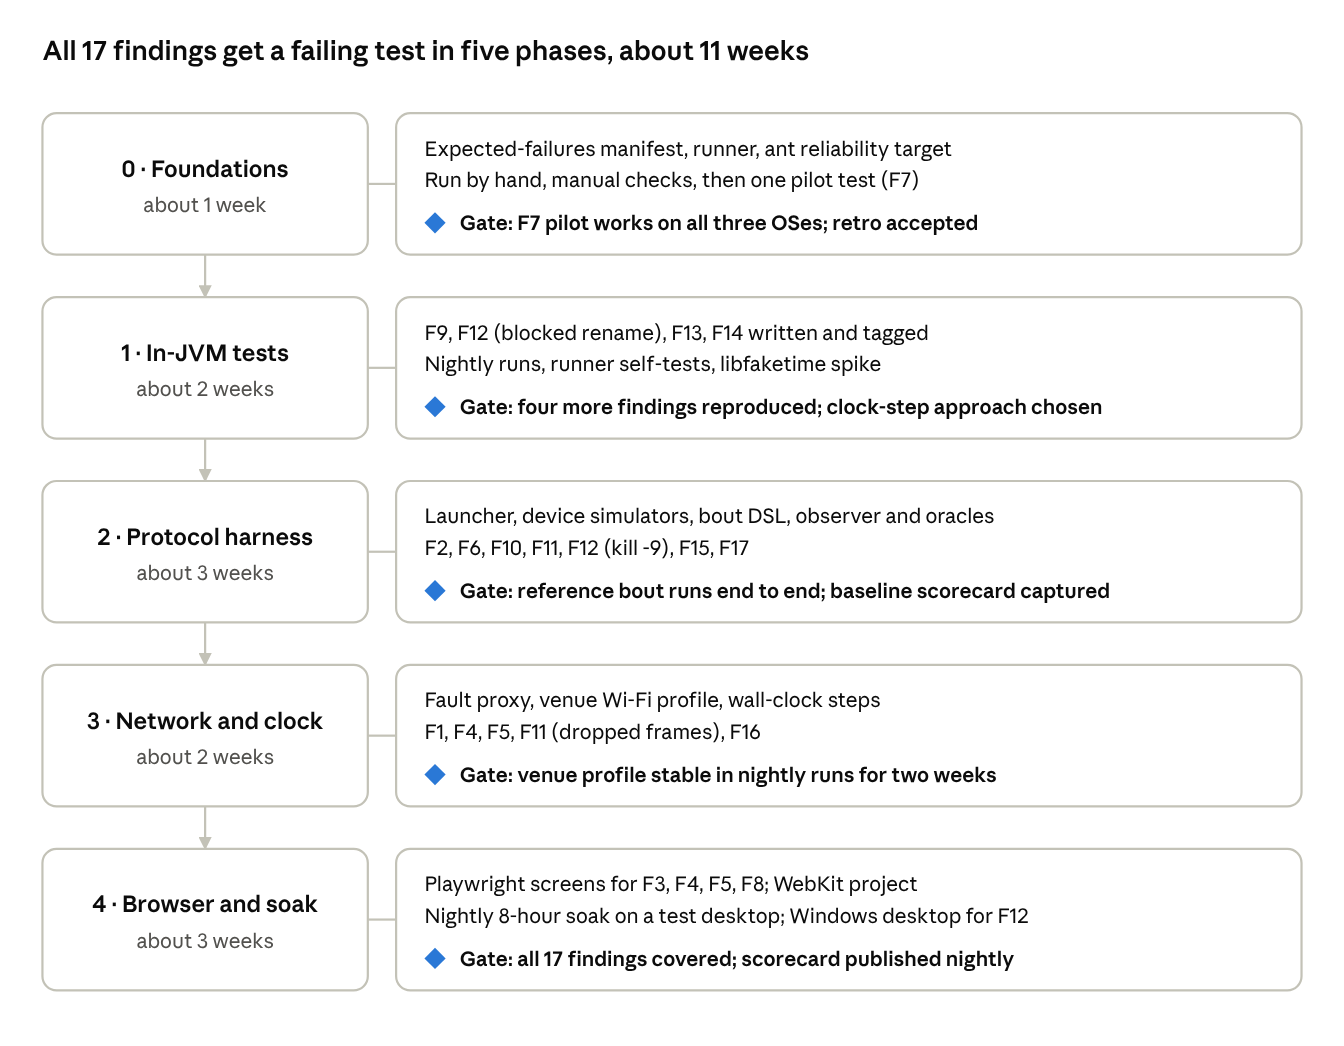
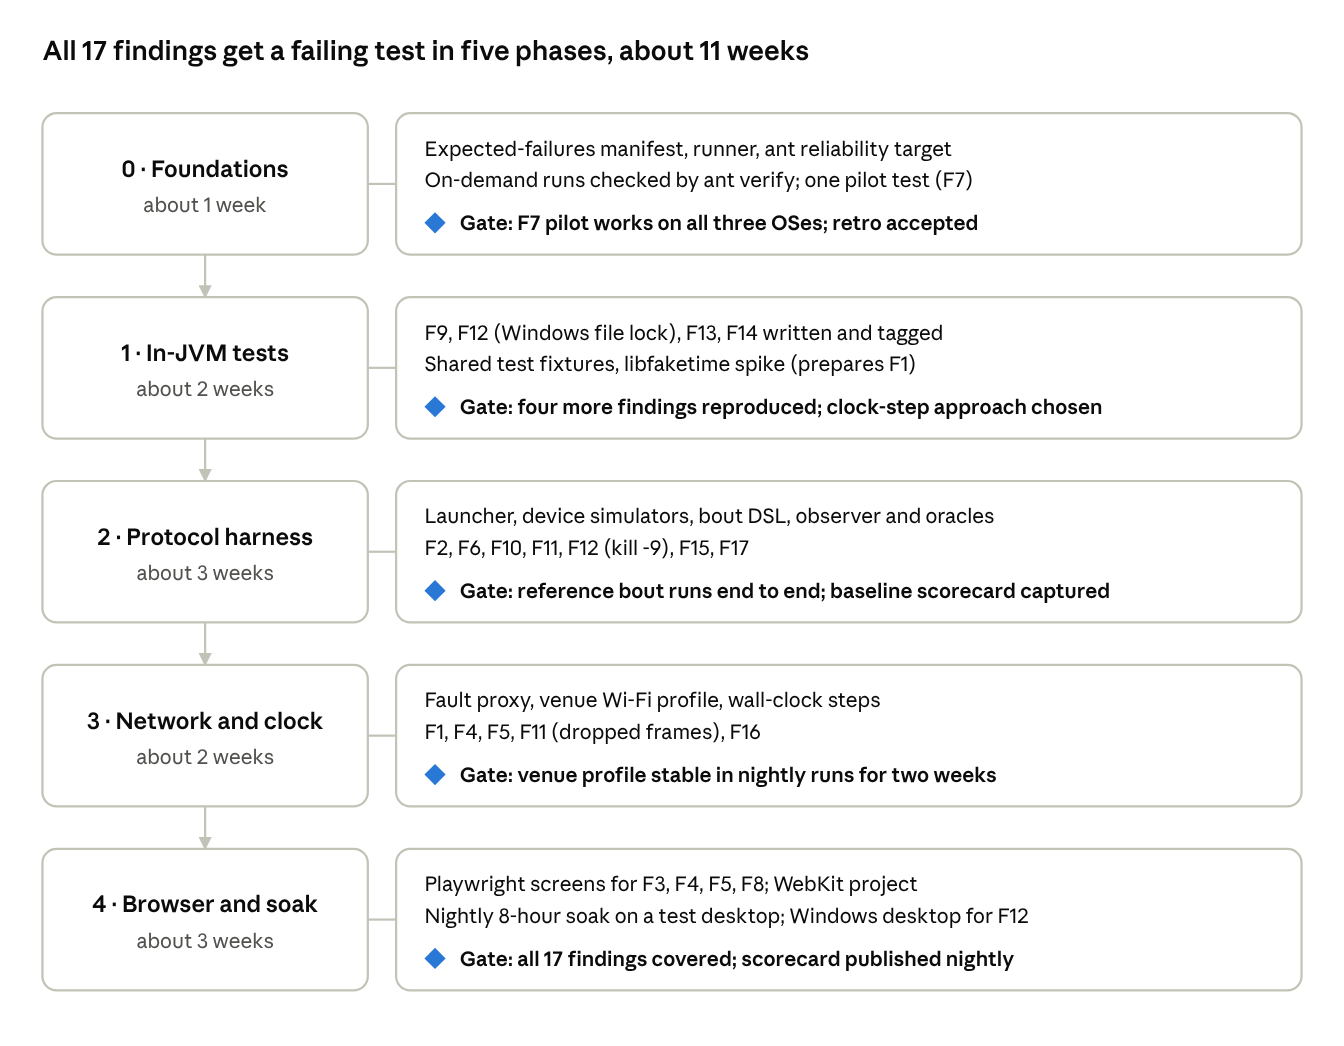
Draft Phase 1 design (F9, F12, F13, F14); mark pilot retro accepted
Each Phase 1 failure was reproduced against dev in scratch runs before
writing the design (F12 needs Windows confirmation). Drops nightly runs
from Phase 1 per the no-cron/no-CI clarification.

Claude-Session: https://claude.ai/code/session_01HZ4Y3PRWU9sq91ay1TwhwM

Changed region(s): [[0.3125, 0.3059, 0.7188, 0.3671], [0.3125, 0.153, 0.7188, 0.1836]]

diff --git a/docs/phase1-in-jvm.md b/docs/phase1-in-jvm.md
@@ -1,0 +1,181 @@
+# Phase 1 — In-JVM findings: design
+
+Status: draft for review · Parent plan: [README.md](../README.md) · Builds on: [Phase 0](phase0-foundations.md), [pilot retrospective](pilot-retro.md) · Oct 13, 2026
+
+Phase 1 adds reliability tests for four more findings: F9, F12, F13 and F14. All four run inside one JVM, through the runner, manifest and `verify` that Phase 0 built. Each failure below was reproduced against `dev` in a scratch run before this design was written. Phase 1 also includes a time-boxed libfaketime spike, which prepares F1 for Phase 3.
+
+Like Phase 0, everything runs on demand on the test desktops: there are no scheduled runs and no CI. This document is written so an agent can implement it without further questions.
+
+## 1. Decisions
+
+| Topic | Decision |
+| --- | --- |
+| Scope | Tests for F9, F12, F13 and F14, the support code they need, and the libfaketime spike. No other findings. |
+| Branch | `reliability-phase1` from `reliability` in `cabacon-gmail/scoreboard`, merged by pull request. |
+| Coupling | Unchanged from Phase 0. Only files under `reliability/` change; M13 enforces it. |
+| Verification | `ant -f reliability/build.xml verify` must report `VERIFY: OK` on Linux, macOS and Windows. M14 and M15 (from PR #3) cover every new manifest entry. No per-finding simulated fix (P3-style) is required. |
+| Scheduling | None. The "nightly runs" item in the Phase 1 roadmap is dropped, since you clarified that "no automation" means no cron and no CI. |
+| Platform-specific tests | A test that can only reproduce its finding on one OS uses a JUnit assumption elsewhere. The runner reports it as `SKIPPED` there, which doesn't fail the run. |
+
+## 2. Evidence from scratch runs against `dev`
+
+| Finding | Scratch result |
+| --- | --- |
+| F9 | A listener throwing on `IN_JAM` during Start Jam leaves `inJam=true`, the jam clock **not running**, and jam number 1. |
+| F13 | The newest autosave has one value that won't parse. The loader rejects it and falls back to the previous file (marker = A, correct), but a setting that existed **only in the rejected file** is still present after the load. |
+| F14 | With listeners registering and unregistering on another thread, `JSONStateManager.updateState` throws `ConcurrentModificationException` to its caller in 50, 56 and 68 of 200 iterations of 500 updates each, across three runs. |
+| F12 | Not reproducible on Linux, where renaming a file someone holds open succeeds. On Windows, a file held open by `java.io.FileInputStream` can't be renamed. Antivirus, backup and sync tools hold files open the same way. Must be confirmed on your Windows desktop: step 6.2. |
+
+The research also turned up two harness problems that Phase 1 must fix first (section 3):
+- **Logging a stack trace crashes without `Main`.** The product's `Logger.printStackTrace` throws `NullPointerException` when no logger is installed, and only `Main` installs one. A test that reaches any error-logging path dies, and the product's non-daemon threads then keep its JVM alive until the class timeout.
+- **Autosaves are empty without a JSON listener.** `ScoreBoardImpl` doesn't attach the `ScoreBoardJSONListener`; `Main` does. Without it, `JSONStateManager` holds no state and every autosave is empty.
+
+## 3. Support code (in `reliability/src/`)
+
+| Change | What it does |
+| --- | --- |
+| `ClassRunner` installs a fallback product logger | Before running the class, if `Logger.getInstance()` is null, install a logger that prints each line to stdout (and so to the class log). This prevents the NPE-then-hang described in section 2. |
+| `support/CapturingLogger` | `extends com.carolinarollergirls.scoreboard.utils.Logger`. Its constructor calls `setLogger(this)`. It keeps every line in a synchronized list and also prints it. Tests use it to assert what was logged. |
+| `support/ProductFixture` | `ProductFixture.start()` repeats `Main`'s set-up so tests don't each hand-roll it. It stops the global clock (`ScoreBoardClock.getInstance().stop()`), sets `GameImpl.setQuickClockThreshold(0L)`, calls `Version.load()`, creates `new ScoreBoardImpl(false)`, attaches `new ScoreBoardJSONListener(sb, sb.getJsm())`, and calls `sb.postAutosaveUpdate()`. It exposes `sb()` and `game()` (the current `GameImpl`). |
+| `support/Platform` | `isWindows()` (from `os.name`), and `assumeWindows(String why)`, which calls `org.junit.Assume.assumeTrue(why, isWindows())`. |
+| `SelfCheck` M14 | If an entry's test is `SKIPPED` when run unlisted, M14 records "skipped on this OS" for that entry instead of failing. M14 itself fails only if **every** OS run skips it, which a person checks by running `verify` on Windows. |
+
+The F7 pilot test keeps its own set-up. It is not migrated to `ProductFixture`.
+
+## 4. Tests
+
+All four classes live under `reliability/tests/` and follow the README's conventions:
+- assertion messages start with the finding ID;
+- each has a specific `messagePattern`;
+- each note starts with `Trigger:`.
+
+Every product object is created inside the class's own work dir; autosave dirs are relative paths there.
+
+### 4.1 F9: no transactional integrity
+
+`reliability/tests/com/carolinarollergirls/scoreboard/core/game/TransactionReliabilityTest.java`
+
+Test `startJamIsAllOrNothingWhenAListenerFails`:
+1. `ProductFixture.start()`; `g = game()`; `jc = g.getClock(Clock.ID_JAM)`.
+2. Add a one-shot `ScoreBoardListener` to `g`. On the first event whose property is `Game.IN_JAM` and whose value is `true`, it disarms itself and throws `IllegalStateException("injected listener failure")`.
+3. Call `g.startJam()` inside a try/catch that swallows `RuntimeException` and prints it.
+4. `assertEquals("F9: Start Jam was half-applied after a listener failed (inJam=" + g.isInJam() + ", jam clock running=" + jc.isRunning() + ")", g.isInJam(), jc.isRunning())`.
+
+Expected on `dev`: fails, with `inJam=true` and jam clock running `false`.
+
+Manifest entry:
+- `messagePattern`: `F9: Start Jam was half-applied`
+- `notes`: `Trigger: injected (a listener throws while Start Jam is in progress). Start Jam is left half-applied: in a jam with the jam clock stopped.`
+
+### 4.2 F12: a locked autosave file silently stops autosaving (Windows)
+
+`reliability/tests/com/carolinarollergirls/scoreboard/json/AutosaveLockReliabilityTest.java`
+
+Test `latestChangeSurvivesWhenNewestAutosaveIsLocked`:
+1. `Platform.assumeWindows("F12's file lock only blocks renames on Windows")`.
+2. `ProductFixture.start()`. Create `dir = new File("autosave-f12")` and `saver = new AutoSaveJSONState(sb.getJsm(), dir, false)`.
+3. `sb.getSettings().set("Reliability.Marker", "A")`; `saver.run()`.
+4. Open `new java.io.FileInputStream(new File(dir, "scoreboard-0-secs-ago.json"))` and keep it open. Use `java.io`, not NIO: NIO opens files with delete-sharing, which wouldn't block the rename.
+5. `sb.getSettings().set("Reliability.Marker", "B")`; `saver.run()`.
+6. Close the stream.
+7. Create a fresh `ScoreBoardImpl sb2`. Run `sb2.runInBatch(() -> AutoSaveJSONState.loadAutoSave(sb2, dir))`, then `sb2.postAutosaveUpdate()`.
+8. `assertEquals("F12: the latest change was not autosaved while the previous autosave file was locked", "B", sb2.getSettings().get("Reliability.Marker"))`.
+
+Expected on `dev`, on Windows only: fails with marker A. Renaming file 0 to file 1 fails, so renaming the temp file onto file 0 fails too, and the temp file is deleted. Every later save fails the same way while the lock lasts, and nothing reports it. On Linux and macOS the test is `SKIPPED`.
+
+Manifest entry:
+- `messagePattern`: `F12: the latest change was not autosaved`
+- `notes`: `Trigger: injected (another process holds the newest autosave file open, as antivirus or sync tools do). Windows only; SKIPPED elsewhere.`
+
+### 4.3 F13: a rejected autosave leaks into the restored state
+
+`reliability/tests/com/carolinarollergirls/scoreboard/json/AutosaveLoadReliabilityTest.java`
+
+Shared set-up for both tests:
+- `new CapturingLogger()`, then `ProductFixture.start()`.
+- Create `dir = new File("autosave-f13")` and `saver = new AutoSaveJSONState(sb.getJsm(), dir, false)`.
+- Set `Reliability.Marker` = `A` and call `saver.run()`.
+- Set `Reliability.Marker` = `B` and `Reliability.OnlyInNewest` = `present`, then call `saver.run()`.
+
+Now `scoreboard-0-secs-ago.json` holds B and `scoreboard-10-secs-ago.json` holds A.
+
+Test `rejectedNewestAutosaveLeavesNoTrace` (the finding):
+1. In `scoreboard-0-secs-ago.json`, replace the first `"ScoreBoard.Game(<id>).Clock(Jam).MaximumTime" : <digits>` with the same key and the value `"not-a-number"`. Use a regex; fail the test with `setup:` if no such key exists.
+2. Load into a fresh `ScoreBoardImpl sb2` as in F12, step 7.
+3. `assertEquals("setup: loader did not fall back to the previous autosave", "A", marker)`.
+4. `assertNull("F13: state from the rejected newest autosave leaked into the restored state", sb2.getSettings().get("Reliability.OnlyInNewest"))`.
+
+Expected on `dev`: fails at step 4, because `OnlyInNewest` is `present`. Child entries are created in the loader's first pass, before the bad value throws, and the fallback never removes them.
+
+Test `truncatedNewestAutosaveFallsBackCleanly` (a guard that passes today):
+1. Cut `scoreboard-0-secs-ago.json` to half its length.
+2. Load as above.
+3. Assert marker `A` and `OnlyInNewest` null.
+4. Assert that `CapturingLogger` recorded a line naming `scoreboard-0-secs-ago.json`.
+
+Expected on `dev`: passes, because the JSON fails to parse before anything is applied. It is not listed in the manifest. A future change that makes truncation leak would turn it into `NEW_FAILURE`.
+
+Manifest entry, for the finding only:
+- `messagePattern`: `F13: state from the rejected newest autosave leaked`
+- `notes`: `Trigger: injected (the newest autosave holds a value this version cannot parse, e.g. written by a newer version or damaged). Entries that exist only in the rejected file survive the fallback.`
+
+### 4.4 F14: connect and disconnect race in the state fan-out
+
+`reliability/tests/com/carolinarollergirls/scoreboard/json/FanOutReliabilityTest.java`
+
+Test `updatesSurviveClientsConnectingAndDisconnecting`. It calls `RateTest.run(200, i -> { … })`. Each iteration does the following:
+1. Create `jsm = new JSONStateManager(false)`.
+2. Start a "churn" thread that loops until stopped. Each loop registers 20 **distinct** `JSONStateListener` instances whose `sendUpdates` does nothing, then unregisters them. They must be distinct objects: anonymous classes, not lambdas. Non-capturing lambdas are one shared instance, and the first prototype tripped over exactly that.
+3. On the test thread, call `jsm.updateState("ScoreBoard.Reliability.Value", n)` 500 times. Catch any `Throwable` and remember it.
+4. Stop the churn thread and join it, with a 10 s cap.
+5. If anything was caught, throw `AssertionError("F14: updateState threw while clients connected/disconnected: " + t)`.
+
+Expected on `dev`: fails in roughly 25–35% of iterations with `ConcurrentModificationException`. In the real server that exception escapes into the core thread, inside whatever clock tick or button press triggered the update.
+
+Manifest entry:
+- `kind`: `rate`
+- `baselineRate`: the rate measured on Linux during implementation, rounded to two decimals.
+- `notes`: `Trigger: natural (clients connecting and disconnecting while the scoreboard changes, as tablets do on venue Wi-Fi). Rate depends on the machine.`
+
+200 iterations make an all-pass run, which would be `UNEXPECTED_PASS`, practically impossible even at a much lower rate. At 5% the chance is about 3 × 10⁻⁵. If a desktop's rate is above 1.5× the baseline, it reports `RATE_REGRESSION`, which is a warning only.
+
+## 5. libfaketime spike (preparing F1, about one day)
+
+The question: can libfaketime step the JVM's wall clock (`System.currentTimeMillis`) while leaving `System.nanoTime` alone, on the test desktops? Phase 3's F1 test depends on the answer.
+
+1. **Linux:** run a 20-line Java program that prints `currentTimeMillis` and `nanoTime` every 500 ms. Use `LD_PRELOAD=libfaketime.so.1`, `FAKETIME_DONT_FAKE_MONOTONIC=1` and `FAKETIME_TIMESTAMP_FILE`, and edit the timestamp file mid-run to step +5 min and then −5 min.
+2. **macOS:** the same with `DYLD_INSERT_LIBRARIES`. System Integrity Protection may block it for system Java; note the result.
+3. **Windows:** libfaketime does not exist. Record the fallback, a Java agent that redirects `System.currentTimeMillis`, and estimate its size.
+4. Write the result to `crg-reliability-plan/docs/spike-libfaketime.md`: what worked on each OS, the exact commands, and a recommendation for Phase 3.
+
+The spike produces no test and changes nothing in the fork.
+
+## 6. Verification and acceptance
+
+### 6.1 What `verify` covers
+
+Nothing new needs to be built beyond the M14 change in section 3:
+- M1 runs the full suite, so F9, F13 and F14 must be `KNOWN` or `KNOWN_RATE`, F12 `SKIPPED` off Windows, and the F13 truncation guard `PASS`.
+- M14 runs each entry unlisted and checks it fails for its own reason.
+- M15 checks every note declares its trigger.
+- M13 checks that nothing outside `reliability/` changed.
+
+### 6.2 Phase 1 gate
+
+1. `ant -f reliability/build.xml verify` reports `VERIFY: OK` on Linux, macOS and Windows, with M12 passing on at least one of them.
+2. **Windows confirms F12:** `AutosaveLockReliabilityTest` is `KNOWN` there, not `SKIPPED` and not `UNEXPECTED_PASS`. If Windows does not block the rename, F12's test is wrong. Stop and revise section 4.2 before merging.
+3. The F14 baseline in the manifest comes from a real Linux measurement, and the pull request records the rate observed on each OS.
+4. `docs/spike-libfaketime.md` exists, with a recommendation.
+
+The implementing agent runs `verify` on Linux before opening the pull request and pastes the summary into it. You run Windows and macOS.
+
+## 7. Out of scope, and open questions
+
+Out of scope:
+- Findings F1–F6, F8, F10, F11 and F15–F17 (Phases 2–4).
+- F12 durability across `kill -9`, which needs the process harness (Phase 2).
+- Scheduled runs and CI.
+
+Open questions for you:
+- **Autosave history.** The autosaves cover only the last ~60 s (7 files × 10 s), and older backups are made only at start-up. Is longer recovery history a requirement, for example being able to restore the state from two minutes ago? If so, it becomes its own test. Today it's a product decision, not a bug.
+- **How should a failed autosave be reported?** F12's test checks only that the latest change survives. If you also want "the operator is told", we need to agree what they see before a test can assert it: for example, a state key the SBO screen shows as a warning.

diff --git a/docs/pilot-retro.md b/docs/pilot-retro.md
@@ -1,6 +1,6 @@
 # Phase 0 pilot retrospective (P5)
 
-Status: proposed, awaiting acceptance by Charles · Oct 13, 2026
+Status: accepted by Charles, Oct 13, 2026. Changes 1, 2, 3 and 5 are in [PR #3](https://github.com/cabacon-gmail/scoreboard/pull/3); 4 and 6 are folded into the plan and the Phase 2 design.
 
 **Verdict: the workflow works, and the remaining findings can get tests.** The F7 pilot went through every step:
 - It failed on `dev` for the reason the code review predicted.
